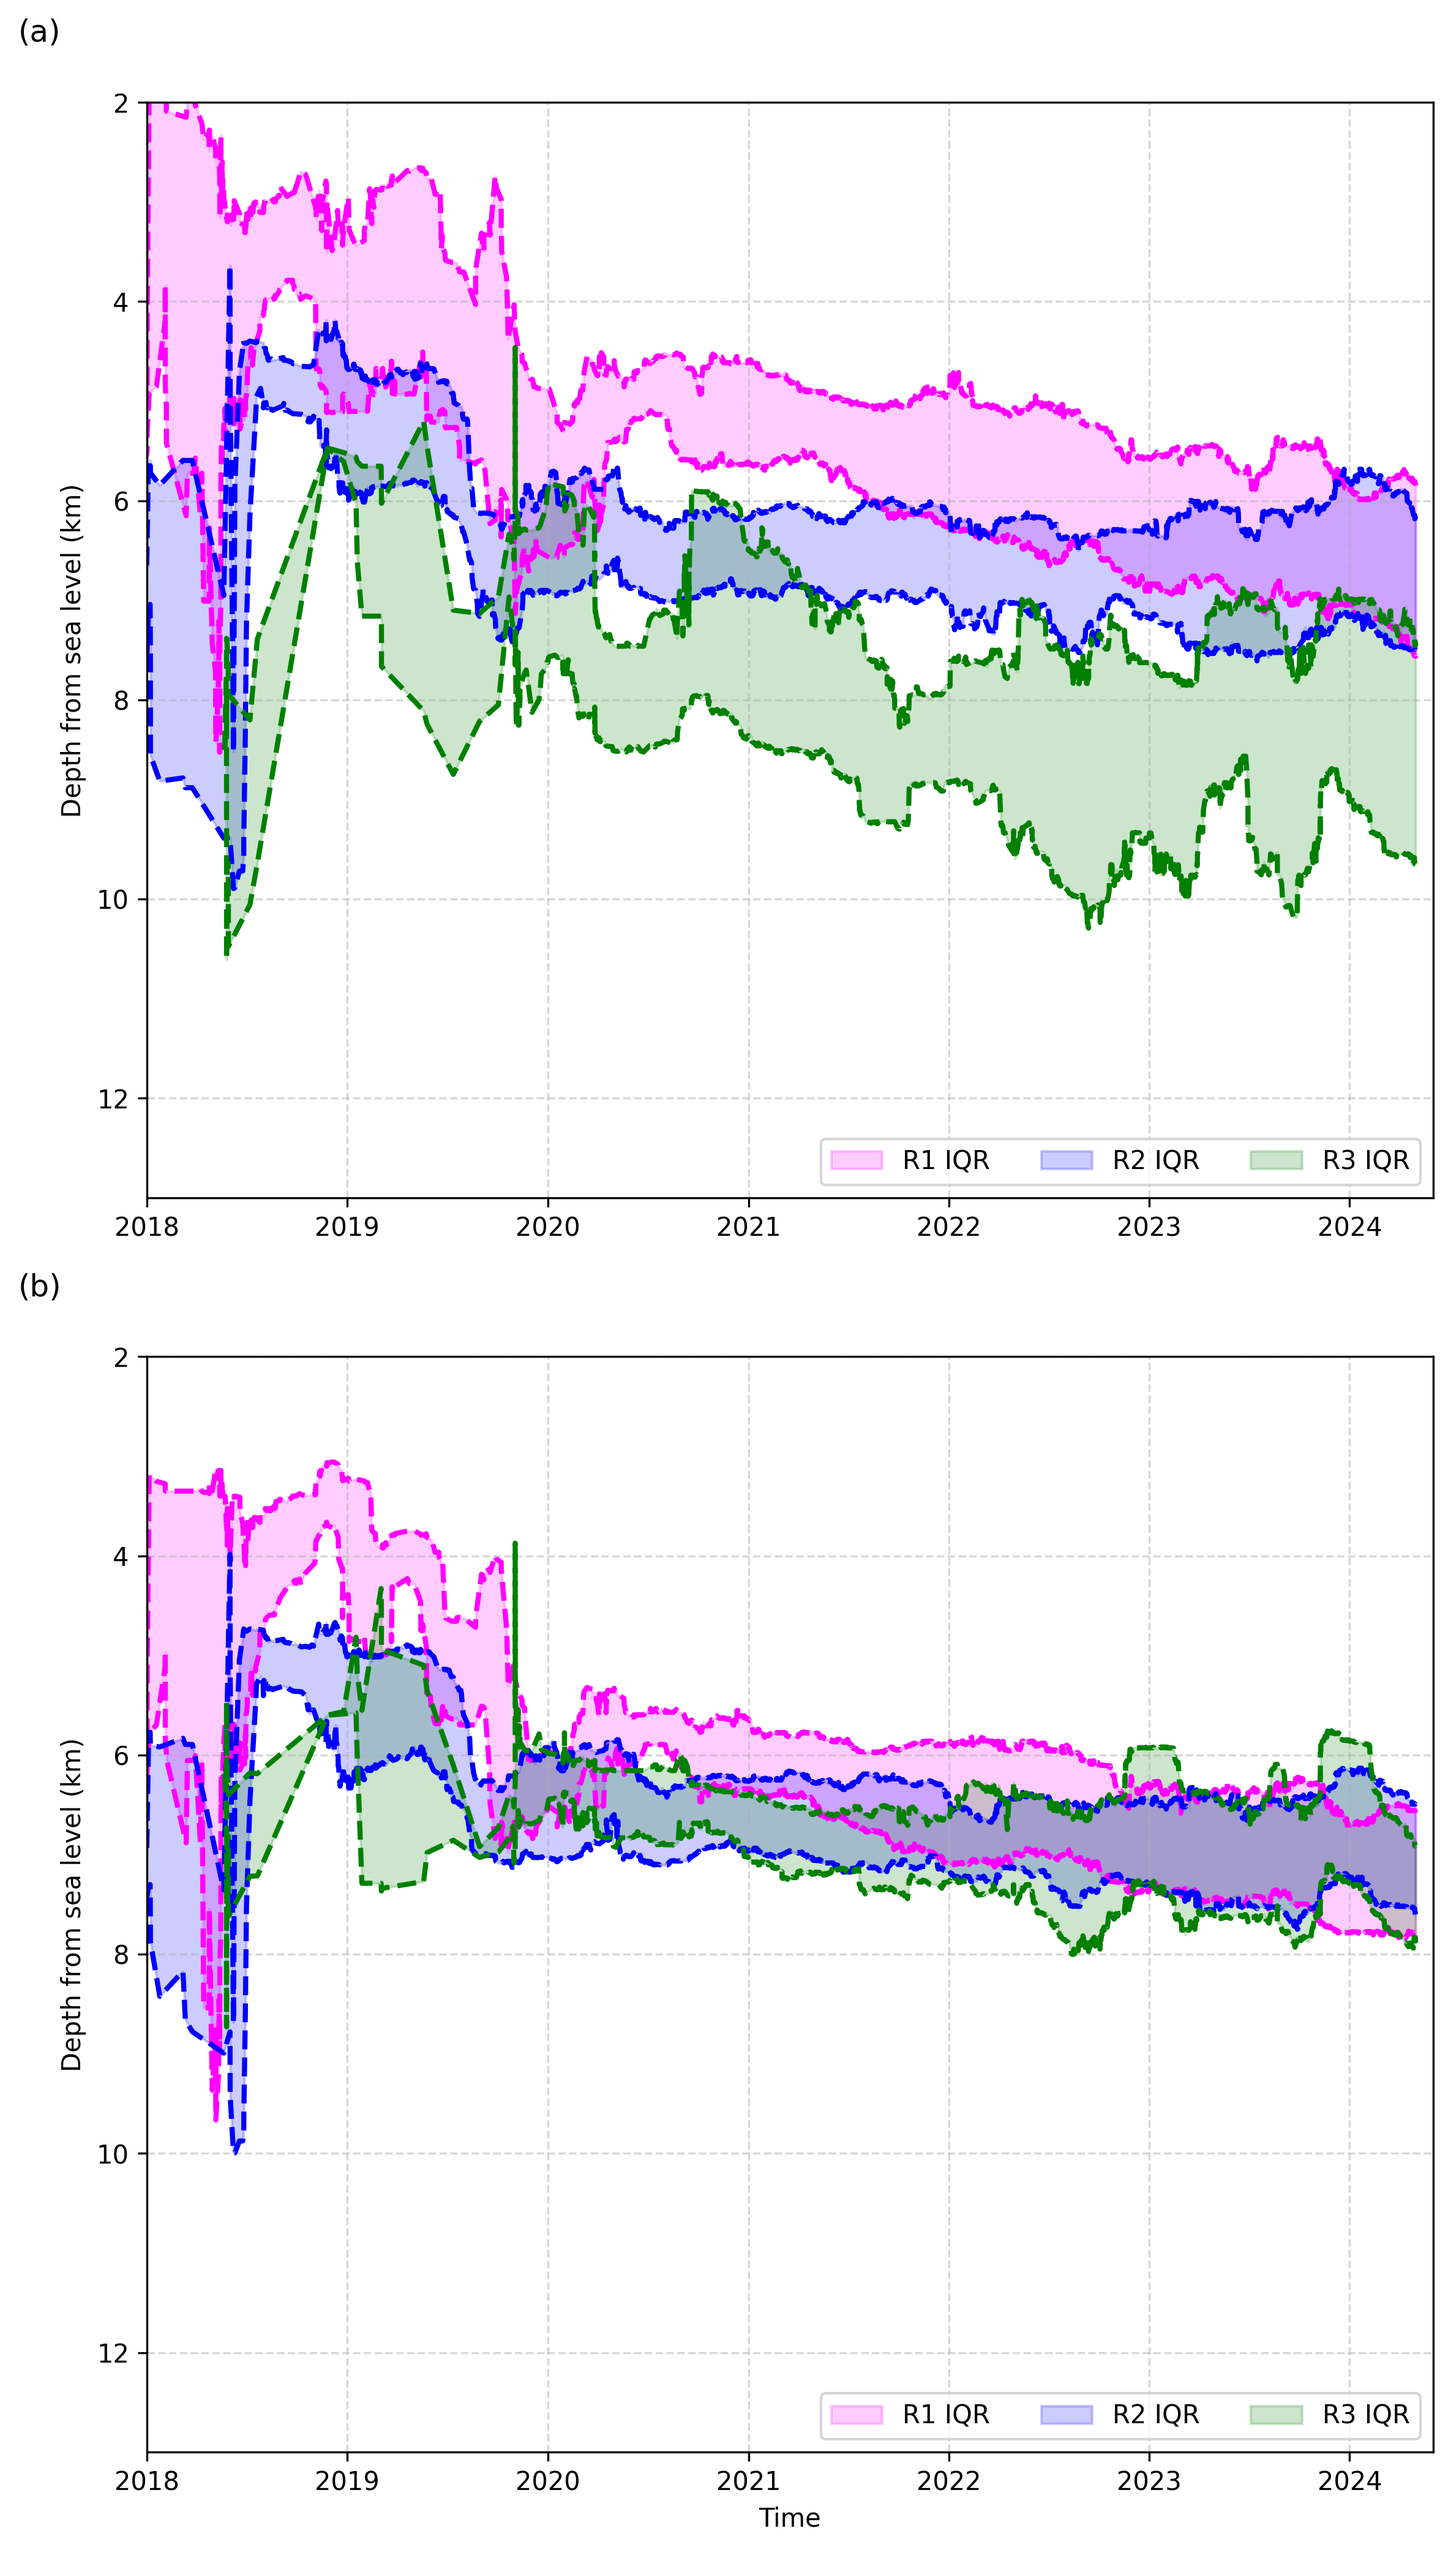
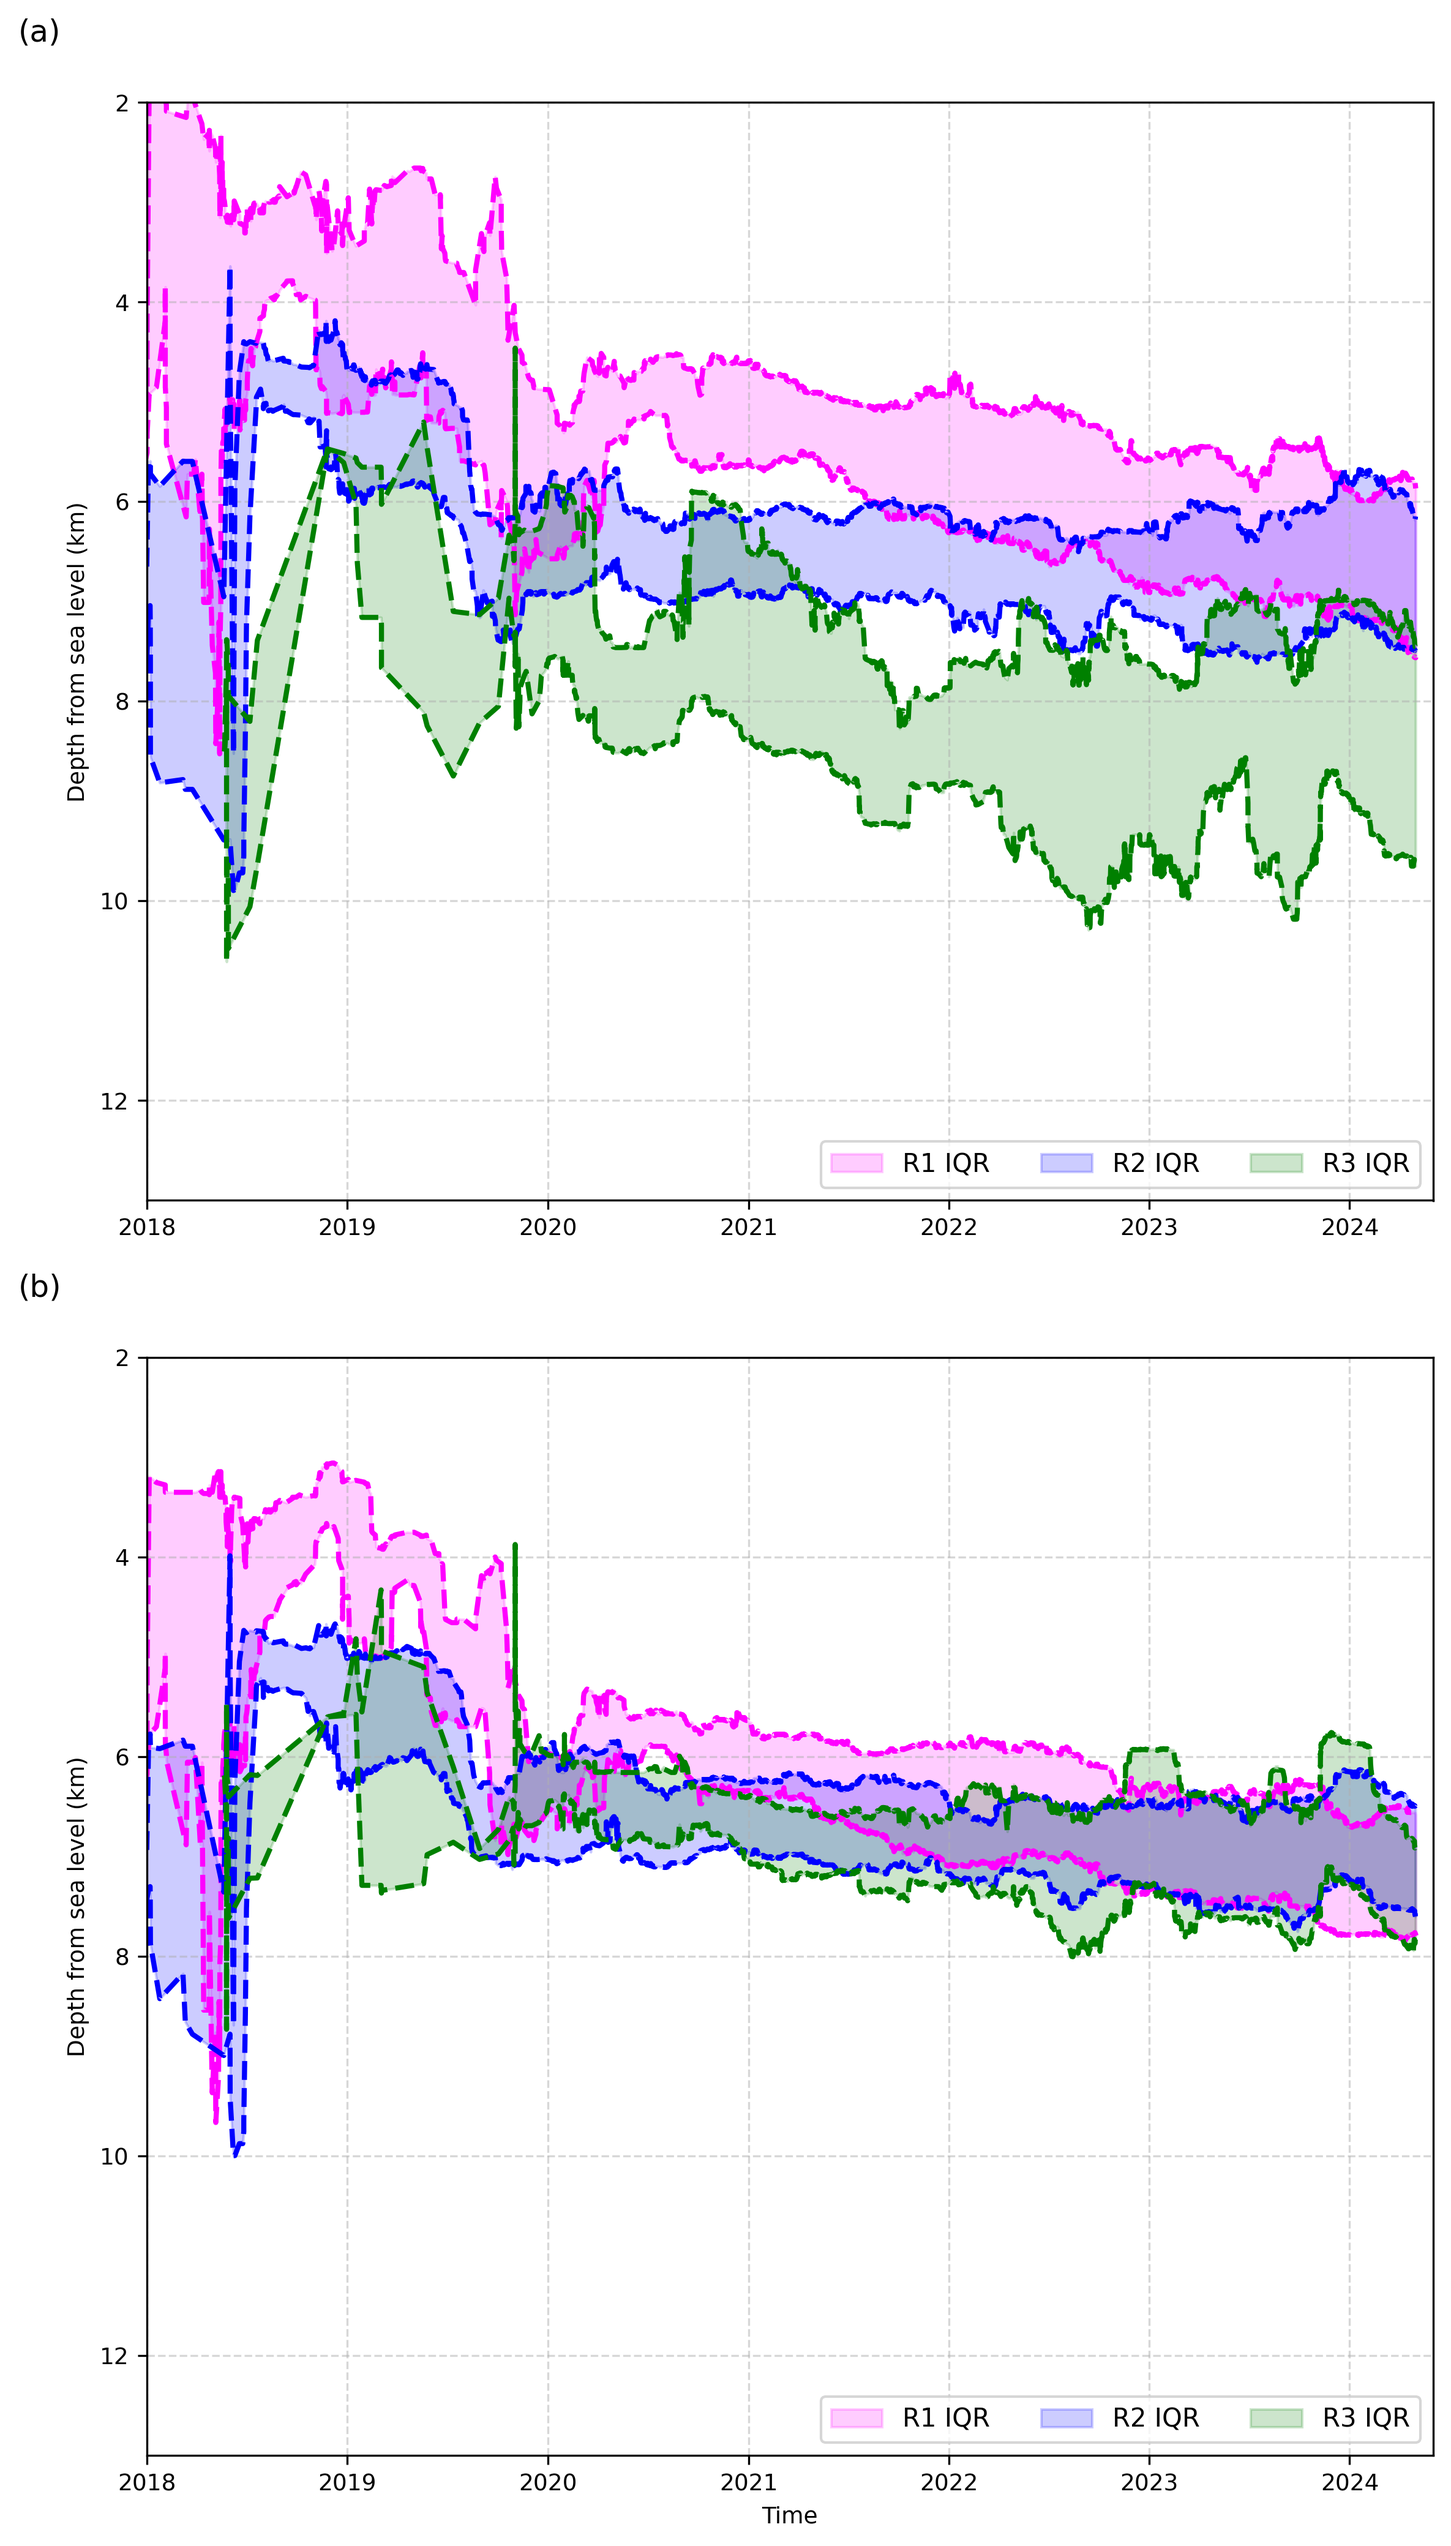
CMEZ

diff --git a/paper/fig7.py b/paper/fig7.py
@@ -79,15 +79,15 @@ plot_depth_vs_time_by_region_with_iqr(sp_events,
                                       legend=False,
                                       ax=axes[1])
 
-axes[0].set_xlabel(None,fontsize=10)
-axes[0].tick_params(axis='both', labelsize=10)
-axes[0].set_ylabel("Depth from sea level (km)",fontsize=10)
+axes[0].set_xlabel(None,fontsize=9)
+axes[0].tick_params(axis='both', labelsize=9)
+axes[0].set_ylabel("Depth from sea level (km)",fontsize=9)
 axes[0].set_title(None)
 axes[0].legend( loc='lower right',ncol=3)
 
-axes[1].set_xlabel("Time",fontsize=10)
-axes[1].tick_params(axis='both', labelsize=10)
-axes[1].set_ylabel("Depth from sea level (km)",fontsize=10)
+axes[1].set_xlabel("Time",fontsize=9)
+axes[1].tick_params(axis='both', labelsize=9)
+axes[1].set_ylabel("Depth from sea level (km)",fontsize=9)
 axes[1].set_title(None)
 axes[1].legend( loc='lower right',ncol=3)
 
